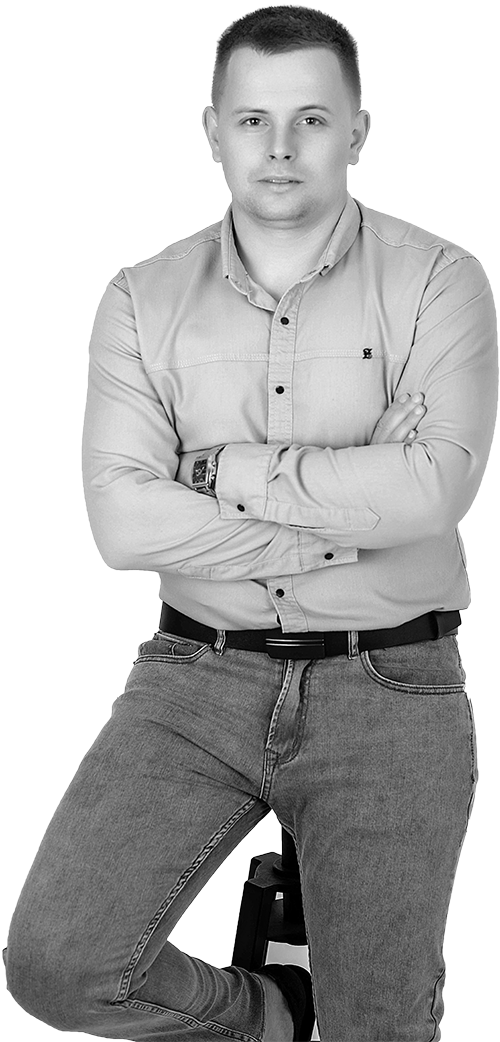
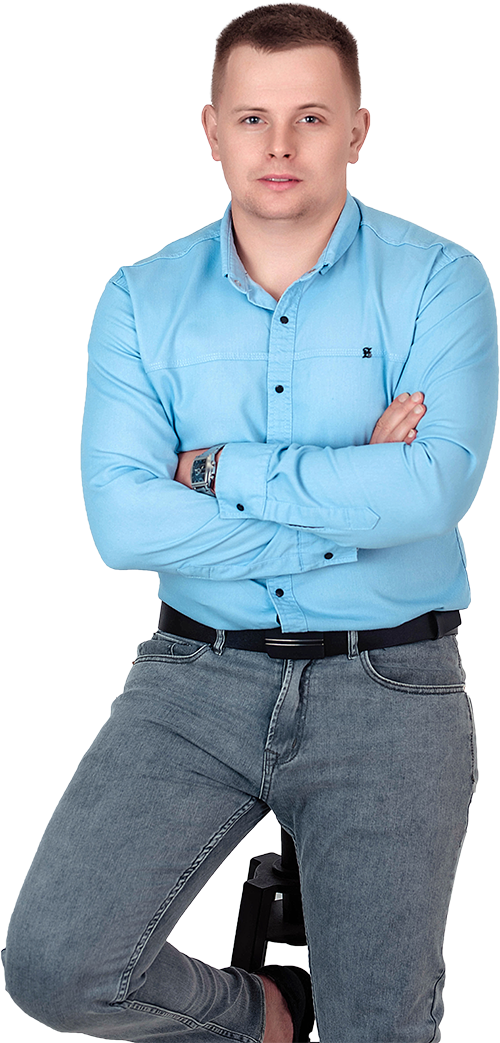
update color profile

diff --git a/src/component/Section/Section.tsx b/src/component/Section/Section.tsx
@@ -1,7 +1,7 @@
 import React, {useEffect} from 'react';
 import {Abaut} from "../AbautMe/Abaut";
 import styled from "styled-components";
-import fon1 from '../../img/fon2.jpg'
+import fon1 from '../../img/fon3.jpg'
 import fon2 from '../../img/i1.webp'
 import fon6 from '../../img/layer-6.png'
 
@@ -28,7 +28,7 @@ export const Section = () => {
                 <LayersItem className="layer-3">
                     <div className="hero-content">
                         <h1>FRONTEND DEVELOPER <span>REACT / REDUX</span></h1>
-                        <div className="hero-content__p">ROMAN SHINKARENKO</div>
+                        <h1 className="hero-content__p">ROMAN SHINKARENKO</h1>
                     </div>
                 </LayersItem>
                 {/*<LayersItem className="layer-5" fon5={fon5}></LayersItem>*/}
@@ -70,22 +70,27 @@ const LayersItem = styled.div<LayersItemType>`
   align-items: center;
   justify-content: center;
   transition: transform 1s ease-out;
+
   &.layer-1 {
     background-image: url(${({fon1}) => fon1});
     transform: translateZ(-55px) scale(1.06);
   }
+
   &.layer-2 {
     background-image: url(${({fon2}) => fon2});
-    transform: translateZ(80px) scale(.7) translateY(90px) translateX(var(--transition_l2));
+    transform: translateZ(80px) scale(.74) translateY(90px) translateX(var(--transition_l2));
     background-size: contain;
     background-repeat: no-repeat;
   }
+
   &.layer-3 {
     transform: translateZ(180px) scale(.8) translateX(var(--transition_l3));
   }
+
   &.layer-4 {
     transform: translateZ(190px) scale(.9);
   }
+
   &.layer-5 {
     background-image: url(${({fon5}) => fon5});
     transform: translateZ(50px) scale(.9) rotate(90deg);
@@ -93,14 +98,17 @@ const LayersItem = styled.div<LayersItemType>`
     background-repeat: no-repeat;
     /* background-position: 100px 500px; */
   }
+
   &.layer-6 {
     background-image: url(${({fon6}) => fon6});
     transform: translateZ(380px);
     pointer-events: none;
   }
-  &.layer-7{
+
+  &.layer-7 {
     transform: translateZ(180px) translateY(var(--transition_l7));
   }
+
   .hero-content {
     font-size: calc(var(--index) * 2.2);
     text-align: center;
@@ -108,20 +116,24 @@ const LayersItem = styled.div<LayersItemType>`
     letter-spacing: calc(var(--index) * -.15);
     line-height: 1.35em;
     margin-top: calc(var(--index) * 5.5);
+    color: #d7bd97;
+    text-shadow: 0 1px black;
   }
+
   .hero-content span {
     display: block;
   }
+
   .hero-content__p {
     text-transform: none;
-    font-family: merriweather-italic-3d,serif;
+    //font-family: merriweather-italic-3d, serif;
     letter-spacing: normal;
-    font-size: calc(var(--index) * .9);
+    font-size: calc(var(--index) * 1.5);
     line-height: 3;
   }
 
   .button-start {
-    font-family: Arial,serif;
+    font-family: Arial, serif;
     font-weight: 600;
     text-transform: uppercase;
     font-size: calc(var(--index) * .71);
@@ -135,11 +147,14 @@ const LayersItem = styled.div<LayersItemType>`
     cursor: pointer;
     margin-top: calc(var(--index) * 2.5);
   }
-  .layer-4,.layer-3, .layer-5, .layer-6, .layer-7 {
+
+  .layer-4, .layer-3, .layer-5, .layer-6, .layer-7 {
     pointer-events: none;
   }
+
   /* Abaut */
-  .abaut-content{
+
+  .abaut-content {
     width: 50vw;
     height: 50vh;
     overflow: auto;

diff --git a/src/component/AbautMe/AbautPage/TextPage.tsx b/src/component/AbautMe/AbautPage/TextPage.tsx
@@ -1,37 +1,52 @@
-import React, {FC, useEffect, useState} from 'react';
+import React, {FC} from 'react';
 import styled from "styled-components";
 import {infosType} from "./Me";
+
 type TextPage ={
     text: infosType
     text2: infosType
 }
 export const TextPage:FC<TextPage> = (props) => {
     const {text, text2} = props
-    const [printedText, setPrintedText] = useState("");
+    // const [printedText, setPrintedText] = useState("");
+    // const [printedText2, setPrintedText2] = useState("");
 
-    useEffect(() => {
-        setPrintedText("")
-        setPrintedText(text.text.charAt(0))
-        let i = 0;
-        const interval = setInterval(() => {
-            if (text.text[i] !== undefined) {
-                setPrintedText((prevText) => prevText + text.text[i]);
-            }
-            i++;
-            if (i === text.text.length){
-                clearInterval(interval);
-                if (printedText.endsWith("undefined")) {
-                    setPrintedText((prevText) => prevText.slice(0, -10)); // удаляем последние 10 символов
-                }
-            }
-        }, 10);
-
-        return () => clearInterval(interval);
-    }, [text]);
+    // useEffect(() => {
+    //     setPrintedText("")
+    //     setPrintedText(text.text.charAt(0))
+    //     let i = 0;
+    //     const interval = setInterval(() => {
+    //         if (text.text[i] !== undefined) {
+    //             setPrintedText((prevText) => prevText + text.text[i]);
+    //         }
+    //         i++;
+    //         if (i === text.text.length){
+    //             clearInterval(interval);
+    //             if (printedText.endsWith("undefined")) {
+    //                 setPrintedText((prevText) => prevText.slice(0, -10)); // удаляем последние 10 символов
+    //             }
+    //             setPrintedText2("")
+    //             setPrintedText2(text2.text.charAt(0))
+    //             let i = 0;
+    //             const interval2 = setInterval(() => {
+    //                 setPrintedText((prevText) => prevText + text2.text[i]);
+    //                 i++;
+    //                 if (i === text2.text.length){
+    //                     clearInterval(interval2);
+    //                     if (printedText.endsWith("undefined")) {
+    //                         setPrintedText2((prevText) => prevText.slice(0, -10)); // удаляем последние 10 символов
+    //                     }
+    //                 }
+    //             },10)
+    //         }
+    //     }, 10);
+    //
+    //     return () => clearInterval(interval);
+    // }, [text]);
     return (
         <StContainer>
             <h3>{text.title}</h3>
-            <p>{printedText}</p>
+            <p>{text.text}</p>
             <h3>{text2.title}</h3>
             <p>{text2.text}</p>
         </StContainer>
@@ -40,7 +55,7 @@ export const TextPage:FC<TextPage> = (props) => {
 
 const StContainer = styled.div`
   padding: 2%;
-  background: rgba(0, 0, 0, 0.8);
+  background: rgb(0, 0, 0);
   height: 50vh;
   width: 35vw;
   overflow: auto;

diff --git a/src/component/AbautMe/AbautPage/MeAbout.tsx b/src/component/AbautMe/AbautPage/MeAbout.tsx
@@ -2,12 +2,13 @@ import React from 'react';
 import styled from "styled-components";
 import {AboutPage} from "./Me";
 import {ScrollLine} from "../../ScrollLine/ScrollLine";
+import i2 from '../../../img/i2.jpg'
 
 export const MeAbout = () => {
     return (
         <StMeAbout>
             <div className="meFace">
-                <img src="" alt="foto"/>
+                {/*<img src={i2} alt="foto"/>*/}
                 <div className="faceInfo">
                     <div className="info_block">
                         <span>Возрост: </span><span>28</span>
@@ -26,12 +27,12 @@ export const MeAbout = () => {
             <ScrollLine />
             <div className="steck">
                 {
-                    AboutPage.me.skills.map(el => {
+                    AboutPage.me.skills.map((el,index) => {
                         return(
-                            <div className="block_steck">
+                            <div className="block_steck" key={index}>
                                 <div className="steck_title">{el.nameSkill}</div>
                                 <div className="steck_progres">
-                                    <div className="progres_line" style={{width: `${el.percent}%`}}>{el.percent}%</div>
+                                    <div className="progres_line" style={{width: `${el.percent}%`}}><span>{el.percent}%</span></div>
                                 </div>
                             </div>
                         )
@@ -43,37 +44,60 @@ export const MeAbout = () => {
 };
 
 const StMeAbout = styled.div`
-  .meFace{
+  height: 50vh;
+  overflow: auto;
+  .meFace {
     display: flex;
     gap: 10px;
     margin-bottom: 10px;
+    color: #ffffff;
+    background: #9a8a67;
+    padding: 10px;
   }
-  .meFace img{
-    width: 10vw;
-    height: 10vw;
+
+  .meFace img {
+    width: 11vw;
+    height: 14vw;
     background: black;
   }
-  .block_steck{
+
+  .steck {
+    display: flex;
+    flex-direction: column;
+    justify-content: center;
+    align-items: center;
+  }
+
+  .block_steck {
     /* background: green; */
     width: 30vw;
-    .steck_progres{
+
+    .steck_progres {
       width: 100%;
       height: 20px;
       background: rgb(0, 0, 0);
       box-shadow: inset 0 0 2px white;
+      border-radius: 4px;
     }
-    .steck_title{
+
+    .steck_title {
       padding-left: 8px;
     }
-    .progres_line{
+
+    .progres_line {
       display: flex;
       justify-content: left;
       align-items: center;
       /* width: 50%; */
       height: 20px;
-      background: rgb(216, 216, 216);
+      background: #D2C2AA;
       box-shadow: inset 0 0 5px black;
       color: black;
+      border-radius: 4px;
+
+      & span {
+        margin-left: 10px;
+      }
     }
   }
 `

diff --git a/src/component/ScrollLine/ScrollLine.tsx b/src/component/ScrollLine/ScrollLine.tsx
@@ -27,7 +27,7 @@ export const ScrollLine = () => {
                     <img src={angular} alt="angular"/>
                     {/*<img src={apollo} alt="angular"/>*/}
                     <img src={cssImg} alt="angular"/>
-                    {/*<img src={formik} alt="angular"/>*/}
+                    <img src={formik} alt="angular"/>
                     {/*<img src={graphQL} alt="angular"/>*/}
                     <img src={html} alt="angular"/>
                     <img src={javaScript} alt="angular"/>
@@ -36,10 +36,10 @@ export const ScrollLine = () => {
                     <img src={reactQuery} alt="angular"/>
                     {/*<img src={reduxSaga} alt="angular"/>*/}
                     <img src={reduxTol} alt="angular"/>
-                    {/*<img src={restApi} alt="angular"/>*/}
+                    <img src={restApi} alt="angular"/>
                     <img src={storyBook} alt="angular"/>
                     <img src={TS} alt="angular"/>
-                    {/*<img src={Unit} alt="angular"/>*/}
+                    <img src={Unit} alt="angular"/>
                     <img src={WebSocket} alt="angular"/>
                 </div>
             </Marquee>

diff --git a/src/features/app/appReducer.ts b/src/features/app/appReducer.ts
@@ -19,7 +19,7 @@ const slice = createSlice({
         aboutPage: (state, action) => {
                 state.transition_l7 = '0vh'
                 state.transition_l3 = '-100vw'
-                state.transition_l2 = '50vw'
+                state.transition_l2 = '45vw'
         },
         homePage: (state, action) => {
                 state.transition_l7 = '100vh'

diff --git a/src/component/AbautMe/AbautPage/Me.ts b/src/component/AbautMe/AbautPage/Me.ts
@@ -46,6 +46,8 @@ export const AboutPage:AboutPageType = {
             {percent: 70, nameSkill: 'PHP'},
             {percent: 70, nameSkill: 'SQL'},
             {percent: 95, nameSkill: 'REACT'},
+            {percent: 95, nameSkill: 'REDUX'},
+            {percent: 95, nameSkill: 'REDUX TOOLKIT'},
         ]
     },
 

diff --git a/src/component/AbautMe/AbautPage/AboutHead.tsx b/src/component/AbautMe/AbautPage/AboutHead.tsx
@@ -50,7 +50,7 @@ const AboutHed = styled.div`
     }
 
     & h3, h4 {
-      font-size: calc(var(--index) * .7);
+      font-size: calc(var(--index) * 1.1);
       margin: 2px;
     }
   }
